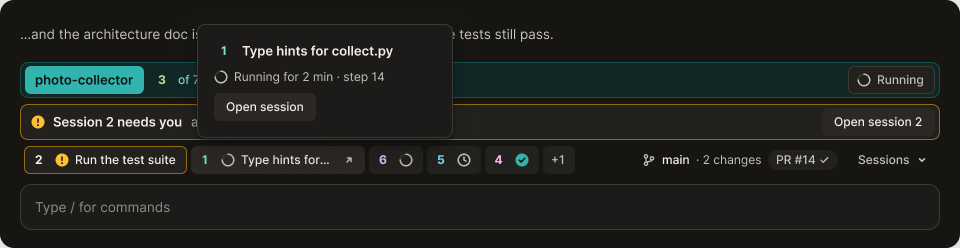
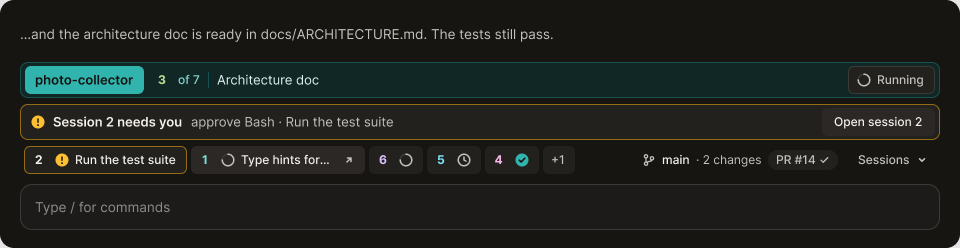
README: install near the top with update and uninstall, two GIFs instead of four, clean dark band, product social preview
- Install, requirements and how to update, turn off and uninstall now come right after Why.
- Only the work line and the needs-you alert stay animated; project colors and the background states are stills that show all three at once.
- The dark band image no longer has a hover card over the session number and subject.
- docs/images/social-preview.png shows the band under the logo.

diff --git a/README.md b/README.md
@@ -14,6 +14,7 @@
 <p align="center">
   <a href="https://github.com/LunkiBR/skim-it/actions/workflows/checks.yml"><img alt="Checks" src="https://github.com/LunkiBR/skim-it/actions/workflows/checks.yml/badge.svg"></a>
   <a href="LICENSE"><img alt="MIT license" src="https://img.shields.io/badge/license-MIT-2f8adc"></a>
+  <a href="#requirements"><img alt="Claude Code 2.1.325 or newer" src="https://img.shields.io/badge/Claude%20Code-2.1.325%2B-555"></a>
   <a href="README.pt-BR.md"><img alt="Leia em português" src="https://img.shields.io/badge/leia%20em-portugu%C3%AAs-555"></a>
 </p>
 
@@ -29,6 +30,42 @@ Running five or ten Claude Code sessions at once is normal now.
 The Desktop shows each one in isolation: to know which session is waiting for you, you open them one by one.
 Long turns bury the answer under tool calls and narration.
 skim-it is a mod that fixes both without changing how the model writes.
+
+## Install
+
+At the prompt of a Claude Code session:
+
+```
+/plugin install skim-it --marketplace LunkiBR/skim-it
+```
+
+Answer `y` to add the marketplace, then pick a scope.
+From a shell:
+
+```bash
+claude plugin install skim-it --marketplace LunkiBR/skim-it
+```
+
+Open a new session and type `/skim-it` to see the settings.
+
+### Requirements
+
+- Claude Code 2.1.325 or newer, in the Code tab of Claude Desktop.
+- `git` on the PATH for the Git line, and the [GitHub CLI](https://cli.github.com) signed in for PRs and CI (optional).
+- Built and used daily on Windows; macOS and Linux should work but have not been tested yet.
+
+If another theme mod (such as `/custom-theme`) is on for the same project, the two will trade the look on every message.
+Turn the other one off for that project.
+
+### Update, turn off, uninstall
+
+```bash
+claude plugin update skim-it
+claude plugin disable skim-it
+claude plugin uninstall skim-it
+```
+
+The sessions leave one small file each in `~/.claude/skim-it/fleet/`; delete `~/.claude/skim-it` after uninstalling to remove every trace.
 
 ## What changes
 
@@ -79,7 +116,7 @@ Relative links in the answer become clickable.
 <p align="center">
   <picture>
     <source media="(prefers-color-scheme: light)" srcset="docs/images/band-light.png">
-    <img alt="The skim-it band above the prompt: project, session 3 of 10, its subject and state, an alert for the session that needs you, the other sessions by number and state, and the Git line" src="docs/images/band-dark.png" width="820">
+    <img alt="The skim-it band above the prompt: the project, the session number, its subject and state, an alert for the session that needs you, the other sessions by number and state, and the Git line" src="docs/images/band-dark.png" width="820">
   </picture>
 </p>
 
@@ -121,7 +158,7 @@ The sessions panel lists all sessions of the project grouped by state, with whoe
 ### Every project, its own color
 
 <p align="center">
-  <img alt="The same window switching between three projects: teal, blue and violet" src="https://github.com/LunkiBR/skim-it/raw/media/gifs/colors.gif" width="880">
+  <img alt="Three bands, one per project: photo-collector in teal, LIA Task in blue and socialdesign-staging in violet" src="docs/images/band-per-project.png" width="820">
 </p>
 
 A calm, high-contrast look: tinted grays, primary text at 7:1 on every surface, color only where it means something.
@@ -131,7 +168,7 @@ Red, green and amber never stand for a project.
 ### A background that follows the session
 
 <p align="center">
-  <img alt="Three backgrounds side by side: calm and nearly gray at rest, the project color while working, amber light at the edges while waiting for you" src="https://github.com/LunkiBR/skim-it/raw/media/gifs/background.gif" width="880">
+  <img alt="Three backgrounds side by side: calm and nearly gray at rest, the project color while working, amber light at the edges while waiting for you" src="https://github.com/LunkiBR/skim-it/raw/media/frames/background-states.jpg" width="880">
 </p>
 
 Behind the frosted glass, the background tells you the session's state at a glance: nearly gray at rest, the project's color breathing slowly while it works, and amber light along the edges while it waits for you.
@@ -144,34 +181,8 @@ Behind the frosted glass, the background tells you the session's state at a glan
 
 Type `/skim-it` and every setting is in one card; each one is also a [command](#commands).
 
-> The film and these images redraw Claude Code Desktop in code with the mod's own band, colors and backgrounds, on a demo fleet of seven sessions like the one `/skim-it demo` shows.
+> The film and these images redraw Claude Code Desktop from the mod's own design and code (band, colors and backgrounds), on a demo fleet of sessions like the one `/skim-it demo` shows.
 > In the app the mod draws the same layout with the Desktop's own components, so radius and type follow your Desktop.
-
-## Install
-
-At the prompt of a Claude Code session:
-
-```
-/plugin install skim-it --marketplace LunkiBR/skim-it
-```
-
-Answer `y` to add the marketplace, then pick a scope.
-From a shell:
-
-```bash
-claude plugin install skim-it --marketplace LunkiBR/skim-it
-```
-
-Open a new session and type `/skim-it` to see the settings.
-
-### Requirements
-
-- Claude Code 2.1.325 or newer, in the Code tab of Claude Desktop.
-- `git` on the PATH for the Git line, and the [GitHub CLI](https://cli.github.com) signed in for PRs and CI (optional).
-- Built and used daily on Windows; macOS and Linux should work but have not been tested yet.
-
-If another theme mod (such as `/custom-theme`) is on for the same project, the two will trade the look on every message.
-Turn the other one off for that project.
 
 ## Commands
 
@@ -240,7 +251,7 @@ The checks are plain Node scripts for the pure logic (color engine, states, typo
 npm test
 ```
 
-Before a pull request, also run `claude plugin validate .` and, with the types the engine writes to `.claude-plugin/types/` after the first load, `npx -p typescript tsc -p .`.
+Before a pull request, also run `claude plugin validate .` and `npm run typecheck` (after the first load, which writes the types to `.claude-plugin/types/`).
 [CONTRIBUTING.md](CONTRIBUTING.md) has the details.
 
 ## License

diff --git a/README.pt-BR.md b/README.pt-BR.md
@@ -14,6 +14,7 @@
 <p align="center">
   <a href="https://github.com/LunkiBR/skim-it/actions/workflows/checks.yml"><img alt="Checagens" src="https://github.com/LunkiBR/skim-it/actions/workflows/checks.yml/badge.svg"></a>
   <a href="LICENSE"><img alt="Licença MIT" src="https://img.shields.io/badge/licen%C3%A7a-MIT-2f8adc"></a>
+  <a href="#requisitos"><img alt="Claude Code 2.1.325 ou mais novo" src="https://img.shields.io/badge/Claude%20Code-2.1.325%2B-555"></a>
   <a href="README.md"><img alt="Read in English" src="https://img.shields.io/badge/read%20in-English-555"></a>
 </p>
 
@@ -29,6 +30,42 @@ Rodar cinco ou dez sessões do Claude Code ao mesmo tempo virou normal.
 O Desktop mostra cada uma isolada: para saber qual está esperando por você, é preciso abrir uma por uma.
 Turnos longos enterram a resposta embaixo de ferramentas e narração.
 O skim-it é um mod que resolve as duas coisas sem mudar como o modelo escreve.
+
+## Instalação
+
+No prompt de uma sessão do Claude Code:
+
+```
+/plugin install skim-it --marketplace LunkiBR/skim-it
+```
+
+Responda `y` para adicionar o marketplace e escolha o escopo.
+Pelo terminal:
+
+```bash
+claude plugin install skim-it --marketplace LunkiBR/skim-it
+```
+
+Abra uma sessão nova e digite `/skim-it` para ver os ajustes.
+
+### Requisitos
+
+- Claude Code 2.1.325 ou mais novo, na aba Code do Claude Desktop.
+- `git` no PATH para a linha do Git, e o [GitHub CLI](https://cli.github.com) com login para PRs e CI (opcional).
+- Feito e usado todo dia no Windows; macOS e Linux devem funcionar, mas ainda não foram testados.
+
+Se outro mod de tema (como o `/custom-theme`) estiver ligado no mesmo projeto, os dois trocam o look a cada mensagem.
+Desligue o outro nesse projeto.
+
+### Atualizar, desligar, desinstalar
+
+```bash
+claude plugin update skim-it
+claude plugin disable skim-it
+claude plugin uninstall skim-it
+```
+
+Cada sessão deixa um arquivo pequeno em `~/.claude/skim-it/fleet/`; apague `~/.claude/skim-it` depois de desinstalar para não sobrar nada.
 
 ## O que muda
 
@@ -79,7 +116,7 @@ Links relativos na resposta viram clicáveis.
 <p align="center">
   <picture>
     <source media="(prefers-color-scheme: light)" srcset="docs/images/band-light.png">
-    <img alt="A band do skim-it acima do prompt: projeto, sessão 3 de 10, assunto e estado, aviso da sessão que precisa de você, as outras sessões por número e estado, e a linha do Git" src="docs/images/band-dark.png" width="820">
+    <img alt="A band do skim-it acima do prompt: o projeto, o número da sessão, o assunto e o estado, aviso da sessão que precisa de você, as outras sessões por número e estado, e a linha do Git" src="docs/images/band-dark.png" width="820">
   </picture>
 </p>
 
@@ -121,7 +158,7 @@ O painel de sessões lista todas as sessões do projeto agrupadas por estado, co
 ### Cada projeto, a sua cor
 
 <p align="center">
-  <img alt="A mesma janela passando por três projetos: verde-água, azul e violeta" src="https://github.com/LunkiBR/skim-it/raw/media/gifs/colors.gif" width="880">
+  <img alt="Três bands, uma por projeto: photo-collector em verde-água, LIA Task em azul e socialdesign-staging em violeta" src="docs/images/band-per-project.png" width="820">
 </p>
 
 Um look calmo e de alto contraste: cinzas tingidos, texto principal a 7:1 em toda superfície, cor só onde ela significa algo.
@@ -131,7 +168,7 @@ Vermelho, verde e âmbar nunca representam um projeto.
 ### Um fundo que segue a sessão
 
 <p align="center">
-  <img alt="Três fundos lado a lado: calmo e quase cinza em repouso, a cor do projeto trabalhando, luz âmbar nas bordas esperando você" src="https://github.com/LunkiBR/skim-it/raw/media/gifs/background.gif" width="880">
+  <img alt="Três fundos lado a lado: calmo e quase cinza em repouso, a cor do projeto trabalhando, luz âmbar nas bordas esperando você" src="https://github.com/LunkiBR/skim-it/raw/media/frames/background-states.jpg" width="880">
 </p>
 
 Atrás do vidro fosco, o fundo diz o estado da sessão de relance: quase cinza em repouso, a cor do projeto respirando devagar enquanto trabalha, e luz âmbar nas bordas enquanto espera você.
@@ -144,34 +181,8 @@ Atrás do vidro fosco, o fundo diz o estado da sessão de relance: quase cinza e
 
 Digite `/skim-it` e todos os ajustes estão num cartão; cada um também é um [comando](#comandos).
 
-> O filme e estas imagens redesenham o Claude Code Desktop em código com a band, as cores e os fundos do próprio mod, numa frota de demonstração de sete sessões como a que o `/skim-it demo` mostra, em inglês.
+> O filme e estas imagens redesenham o Claude Code Desktop a partir do desenho e do código do próprio mod (band, cores e fundos), numa frota de demonstração como a que o `/skim-it demo` mostra, em inglês.
 > No app o mod desenha o mesmo layout com os componentes do próprio Desktop, então raio e tipografia seguem o seu Desktop.
-
-## Instalação
-
-No prompt de uma sessão do Claude Code:
-
-```
-/plugin install skim-it --marketplace LunkiBR/skim-it
-```
-
-Responda `y` para adicionar o marketplace e escolha o escopo.
-Pelo terminal:
-
-```bash
-claude plugin install skim-it --marketplace LunkiBR/skim-it
-```
-
-Abra uma sessão nova e digite `/skim-it` para ver os ajustes.
-
-### Requisitos
-
-- Claude Code 2.1.325 ou mais novo, na aba Code do Claude Desktop.
-- `git` no PATH para a linha do Git, e o [GitHub CLI](https://cli.github.com) com login para PRs e CI (opcional).
-- Feito e usado todo dia no Windows; macOS e Linux devem funcionar, mas ainda não foram testados.
-
-Se outro mod de tema (como o `/custom-theme`) estiver ligado no mesmo projeto, os dois trocam o look a cada mensagem.
-Desligue o outro nesse projeto.
 
 ## Comandos
 
